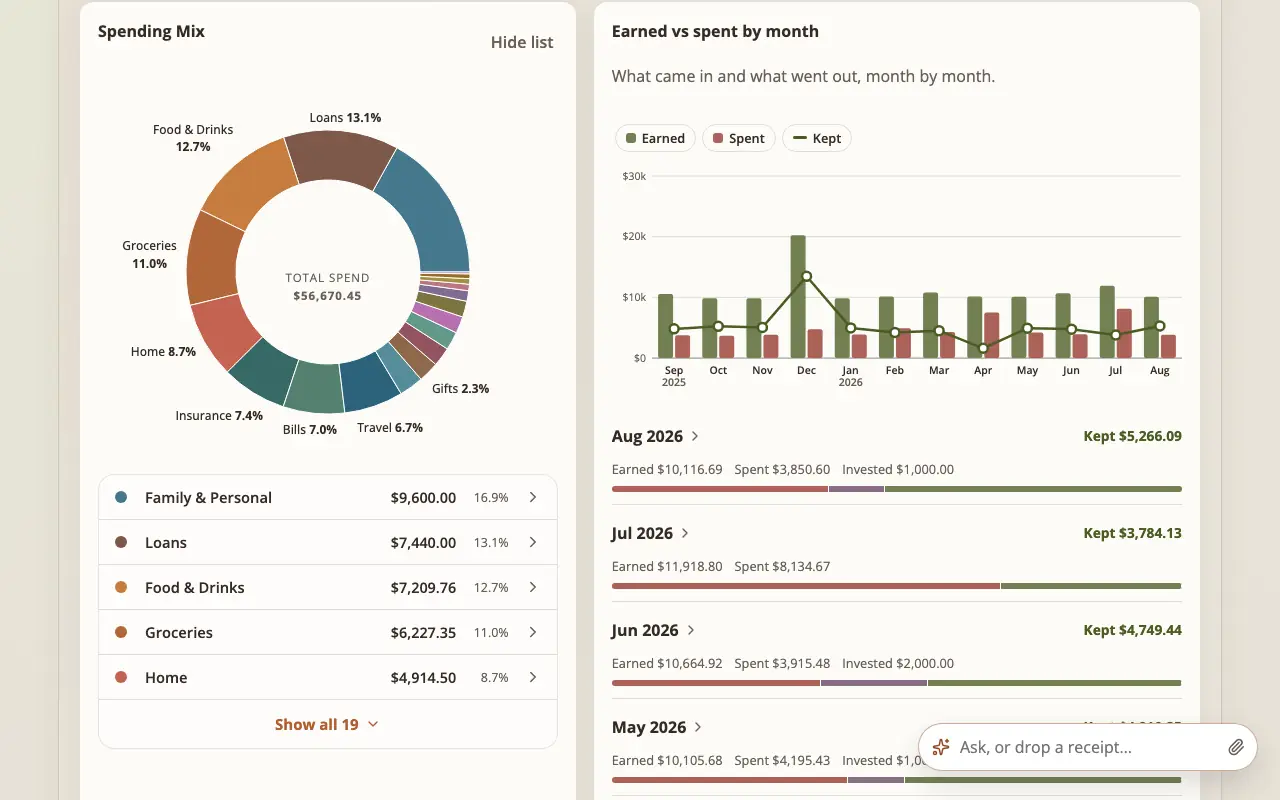
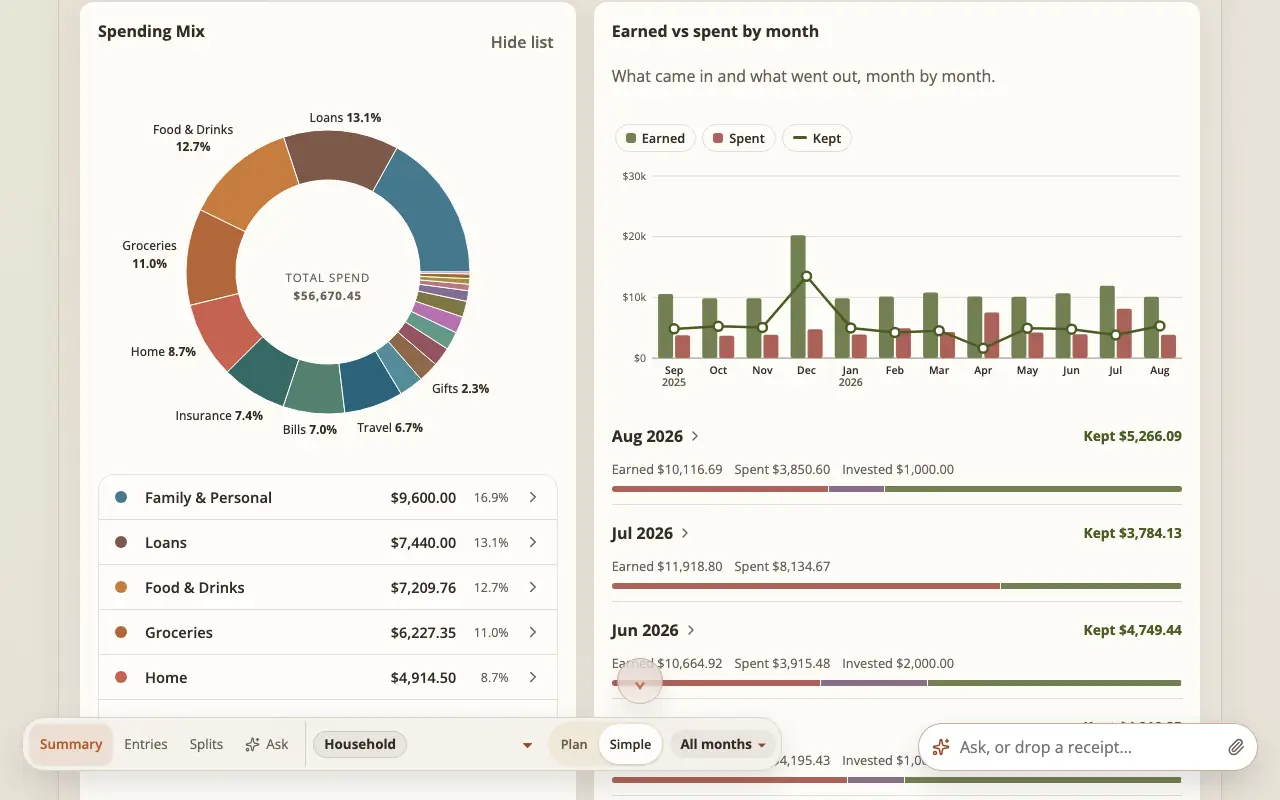
Add actual spending to the plan chart

Changed region(s): [[0.4062, 0.8125, 0.625, 0.9688], [0.0312, 0.875, 0.3438, 0.9688]]

diff --git a/src/client/earned-spent-chart.js b/src/client/earned-spent-chart.js
@@ -15,7 +15,8 @@ import { formatMonthLabel } from "./formatters";
 // The column + line chart at the top of Summary's month-by-month card (the
 // Simple view's "Earned vs spent by month", the Plan view's Intent vs
 // Outcome; design.md "Plan or Simple"). Simple: Earned and Spent columns and
-// a Kept line. Plan: Earned and Spent columns and a Planned spending line.
+// a Kept line. Plan: Earned and Spent columns, a Planned spending line and
+// an Actual spending line over the monthly spending columns.
 // It shows only for a range of two or more months (a single column says
 // nothing the card does not), and with money hidden it draws nothing: no
 // columns, no line, no axis, because their sizes and the line's side of zero
@@ -125,9 +126,9 @@ function EarnedSpentChartBody({ mode, rows }) {
 
   const visible = series.filter((item) => !hiddenKeys.has(item.key));
   const bars = visible.filter((item) => item.kind === "bar");
-  const line = visible.find((item) => item.kind === "line") ?? null;
+  const lines = visible.filter((item) => item.kind === "line");
   // The scale is of every series, so hiding one never rescales the rest.
-  const scale = R.useMemo(() => niceScale(rows.flatMap((row) => [row.earnedMinor, row.spentMinor, row.lineMinor])), [rows]);
+  const scale = R.useMemo(() => niceScale(rows.flatMap((row) => [row.earnedMinor, row.spentMinor, row.lineMinor, row.actualMinor])), [rows]);
   const geometry = chartGeometry({ width, monthCount: rows.length, barCount: bars.length });
   const { top, plotHeight, plotWidth, height } = geometry;
   const yOf = (minor) => top + (plotHeight * (scale.max - minor)) / (scale.max - scale.min);
@@ -137,11 +138,11 @@ function EarnedSpentChartBody({ mode, rows }) {
   rows.forEach((row, index) => {
     bars.forEach((item, barIndex) => points.push({ series: item, row, index, barIndex }));
   });
-  if (line) {
+  lines.forEach((line) => {
     rows.forEach((row, index) => {
-      if (row.lineMinor !== null) points.push({ series: line, row, index, barIndex: -1 });
+      if (lineValue(row, line.key) !== null) points.push({ series: line, row, index, barIndex: -1 });
     });
-  }
+  });
   const keyOf = (point) => `${point.series.key}:${point.index}`;
   const tabKey = points.some((point) => keyOf(point) === activeKey) ? activeKey : points.length ? keyOf(points[0]) : "";
 
@@ -234,23 +235,24 @@ function EarnedSpentChartBody({ mode, rows }) {
     );
   });
 
-  const linePaths = line ? lineSegments(rows, geometry, yOf).map((segment) => h("path", {
-    key: `line-${segment.start}`,
+  const linePaths = lines.flatMap((line) => lineSegments(rows, geometry, yOf, line.key).map((segment) => h("path", {
+    key: `line-${line.key}-${segment.start}`,
     className: `ec-line is-${line.key}`,
     d: segment.d,
     pathLength: 1,
     fill: "none"
-  })) : [];
-  const linePoints = line ? points.filter((point) => point.series.kind === "line").map((point) => {
+  })));
+  const linePoints = points.filter((point) => point.series.kind === "line").map((point) => {
     const cx = geometry.bandCenter(point.index);
-    const cy = yOf(point.row.lineMinor);
+    const value = lineValue(point.row, point.series.key);
+    const cy = yOf(value);
     return h(
       PointGroup,
       { key: keyOf(point), point, mode, ...handlers(point) },
-      h("circle", { className: `ec-dot is-${line.key}${point.row.lineMinor < 0 ? " is-negative" : ""}`, cx, cy, r: 4.5, style: { "--ec-i": point.index } }),
+      h("circle", { className: `ec-dot is-${point.series.key}${value < 0 ? " is-negative" : ""}`, cx, cy, r: 4.5, style: { "--ec-i": point.index } }),
       h("circle", { className: "ec-hit", cx, cy, r: 14 })
     );
-  }) : [];
+  });
 
   return h(
     "div",
@@ -348,15 +350,21 @@ function PointGroup({ point, mode, isTab, onFocus, onBlur, onHoverOpen, onHoverL
 
 // Runs of months that have a point, each its own path, so a month without
 // one (no plan) breaks the line instead of being drawn through zero.
-function lineSegments(rows, geometry, yOf) {
+function lineValue(row, key) {
+  if (key === "actual") return row.actualMinor ?? null;
+  return row.lineMinor;
+}
+
+function lineSegments(rows, geometry, yOf, key) {
   const segments = [];
   let current = null;
   rows.forEach((row, index) => {
-    if (row.lineMinor === null) {
+    const value = lineValue(row, key);
+    if (value === null) {
       current = null;
       return;
     }
-    const command = `${geometry.bandCenter(index).toFixed(1)} ${yOf(row.lineMinor).toFixed(1)}`;
+    const command = `${geometry.bandCenter(index).toFixed(1)} ${yOf(value).toFixed(1)}`;
     if (current) {
       current.d += ` L${command}`;
     } else {

diff --git a/src/client/earned-spent-chart-model.js b/src/client/earned-spent-chart-model.js
@@ -26,7 +26,8 @@ export function chartSeries(mode) {
     ? [
       { key: "earned", kind: "bar", label: words.earned, tone: "in" },
       { key: "spent", kind: "bar", label: words.spent, tone: "short" },
-      { key: "plan", kind: "line", label: words.plan, tone: "plan" }
+      { key: "plan", kind: "line", label: words.plan, tone: "plan" },
+      { key: "actual", kind: "line", label: words.actual, tone: "short" }
     ]
     : [
       { key: "earned", kind: "bar", label: words.earned, tone: "in" },
@@ -37,7 +38,8 @@ export function chartSeries(mode) {
 
 /**
  * One entry per month, oldest first: earnedMinor, spentMinor and lineMinor
- * (Kept in Simple, Planned spending in Plan; null where there is no plan).
+ * (Kept in Simple, Planned spending in Plan; null where there is no plan),
+ * plus actualMinor for Plan's actual-spending line.
  */
 export function buildChartMonths({ mode, months = [], categoryShareByMonth = [], investmentMovesByMonth = [] }) {
   if (mode === "simple") {
@@ -51,6 +53,7 @@ export function buildChartMonths({ mode, months = [], categoryShareByMonth = [],
       month: row.month,
       earnedMinor: row.actualIncomeMinor,
       spentMinor: row.realExpensesMinor,
+      actualMinor: row.realExpensesMinor,
       // As the Intent vs Outcome card reads it: no planned spend is no plan.
       lineMinor: row.estimatedExpensesMinor > 0 ? row.estimatedExpensesMinor : null
     }));
@@ -156,7 +159,7 @@ export function chartGeometry({ width, monthCount, barCount, height = 232 }) {
  * View entries lists that month's rows behind the figure.
  * @param {"plan" | "simple"} mode
  * @param {{ key: string }} series
- * @param {{ month: string, earnedMinor: number, spentMinor: number, lineMinor: number | null }} row
+ * @param {{ month: string, earnedMinor: number, spentMinor: number, lineMinor: number | null, actualMinor?: number }} row
  */
 export function pointFigure(mode, series, row) {
   const monthLabel = formatMonthLabel(row.month);
@@ -195,6 +198,15 @@ export function pointFigure(mode, series, row) {
       name: copy.series.plan,
       label: labelled(copy.seriesWord.plan, planned),
       note: [copy.planned(money(planned)), copy.spentAmount(spent)]
+    };
+  }
+  if (series.key === "actual") {
+    return {
+      ...base,
+      fig: "spent",
+      name: copy.series.actual,
+      label: labelled(copy.seriesWord.actual, row.actualMinor),
+      note: [copy.actualSpending(money(row.actualMinor)), ...(planned === null ? [copy.noPlan] : [])]
     };
   }
   // Spent.

diff --git a/tests/e2e/earned-spent-chart.spec.js b/tests/e2e/earned-spent-chart.spec.js
@@ -233,11 +233,11 @@ test.describe("Plan, desktop", () => {
     await useView(page, "plan");
   });
 
-  test("Intent vs Outcome carries the chart: Earned, Spent and a Planned spending line, no Kept", async ({ page }) => {
+  test("Intent vs Outcome carries earned, spent, planned and actual spending", async ({ page }) => {
     await openSummary(page);
     const card = page.locator(".summary-intent");
     await expect(card.locator("[data-earned-spent-chart]")).toHaveAttribute("data-earned-spent-chart", "plan", { timeout: 30_000 });
-    await expect(chart(page).locator(".ec-legend .ec-chip")).toHaveText(["Earned", "Spent", "Planned spending"]);
+    await expect(chart(page).locator(".ec-legend .ec-chip")).toHaveText(["Earned", "Spent", "Planned spending", "Actual spending"]);
     await expect(chart(page).locator('.ec-chip[data-series="kept"]')).toHaveCount(0);
     // A point for each month that has a plan; a month without one has none.
     const cards = card.locator(".summary-intent-month");
@@ -250,10 +250,12 @@ test.describe("Plan, desktop", () => {
     expect(planned).toBeGreaterThan(0);
     await expect(chart(page).locator('.ec-point[data-ec-series="earned"]')).toHaveCount(months);
     await expect(chart(page).locator('.ec-point[data-ec-series="plan"]')).toHaveCount(planned);
+    await expect(chart(page).locator('.ec-point[data-ec-series="actual"]')).toHaveCount(months);
     const spentLabel = await card.locator(`[data-month="${MONTH}"] .summary-intent-spent`).innerText();
     await expect(point(page, "spent")).toHaveAttribute("aria-label", `May 2026 spent ${spentLabel.trim()}`);
     const plannedMay = (await card.locator(`[data-month="${MONTH}"] .summary-intent-plan`).innerText()).match(/\$[\d,]+\.\d\d/)[0];
     await expect(point(page, "plan")).toHaveAttribute("aria-label", `May 2026 planned spending ${plannedMay}`);
+    await expect(point(page, "actual")).toHaveAttribute("aria-label", `May 2026 actual spending ${spentLabel.trim()}`);
   });
 
   test("the planned point's menu names the series and month, lists View entries, Open plan and Ask", async ({ page }) => {

diff --git a/src/client/copy/earned-spent-chart-copy.js b/src/client/copy/earned-spent-chart-copy.js
@@ -6,14 +6,15 @@
 export const earnedSpentChartCopy = {
   chartLabel: {
     simple: "Earned, spent and kept, month by month",
-    plan: "Earned, spent and planned spending, month by month"
+    plan: "Earned, spent, planned spending and actual spending, month by month"
   },
   legendLabel: "Show or hide in the chart",
   series: {
     earned: "Earned",
     spent: "Spent",
     kept: "Kept",
-    plan: "Planned spending"
+    plan: "Planned spending",
+    actual: "Actual spending"
   },
   // What a column or point is called for assistive tech and the quick
   // facts' first line: "Oct 2026 earned $113.30".
@@ -22,7 +23,8 @@ export const earnedSpentChartCopy = {
     spent: "spent",
     kept: "kept",
     overspent: "overspent",
-    plan: "planned spending"
+    plan: "planned spending",
+    actual: "actual spending"
   },
   pointLabel: (monthLabel, word, amount) => `${monthLabel} ${word} ${amount}`,
   // The quick facts under a menu's title, one per line (figure-menu.js).
@@ -32,6 +34,7 @@ export const earnedSpentChartCopy = {
   overspentAmount: (amount) => `${amount} overspent`,
   earnedAndSpent: (earned, spent) => `Earned ${earned}, spent ${spent}`,
   planned: (amount) => `${amount} planned`,
+  actualSpending: (amount) => `${amount} actual spending`,
   spentAmount: (amount) => `${amount} spent`,
   underPlan: (amount) => `${amount} under plan`,
   overPlan: (amount) => `${amount} over plan`,

diff --git a/src/client/earned-spent-chart.css b/src/client/earned-spent-chart.css
@@ -88,6 +88,7 @@
 [data-series="spent"] { --ec-colour: var(--ec-spent); }
 [data-series="kept"] { --ec-colour: var(--ec-kept); }
 [data-series="plan"] { --ec-colour: var(--ec-plan); }
+[data-series="actual"] { --ec-colour: var(--pastel-rose-ink); }
 
 /* The y axis stays put; the plot beside it scrolls sideways only when more
    than twelve months do not fit. */
@@ -155,6 +156,7 @@
 
 .ec-line.is-kept { stroke: var(--ec-kept); }
 .ec-line.is-plan { stroke: var(--ec-plan); }
+.ec-line.is-actual { stroke: var(--pastel-rose-ink); stroke-dasharray: 5 3; }
 
 .ec-dot {
   fill: var(--paper);
@@ -163,6 +165,7 @@
 
 .ec-dot.is-kept { stroke: var(--ec-kept); }
 .ec-dot.is-plan { stroke: var(--ec-plan); }
+.ec-dot.is-actual { stroke: var(--pastel-rose-ink); }
 .ec-dot.is-negative { stroke: var(--pastel-rose-ink); }
 
 /* A column or point is an openable figure: a clear target over it takes the

diff --git a/src/domain/ask-turn.ts b/src/domain/ask-turn.ts
@@ -1488,9 +1488,11 @@ function currentPerson(context: AskTurnContext) {
     ? context.people.find((person) => person.name === context.entry.viewerName)
     : null;
   if (byShortcut) return byShortcut;
-  return context.focus?.kind === "saved_entry"
-    ? context.people.find((person) => person.id === context.focus.entry.payerPersonId) ?? null
-    : null;
+  const focus = context.focus;
+  if (focus?.kind === "saved_entry") {
+    return context.people.find((person) => person.id === focus.entry.payerPersonId) ?? null;
+  }
+  return null;
 }
 
 function walletOwner(account: AccountDto, people: AskTurnPerson[]) {

diff --git a/src/client/month-route.css b/src/client/month-route.css
@@ -621,7 +621,7 @@
   /* A held slider draft adds Undo to the island. Keep its 44px target just
      above the compact mode switch so the labelled month navigator and the
      Sliders | List control never run off the phone's edge. */
-  .mobile-context-sticky-bar[data-scope="direct_plus_shared"] #mobile-plan-actions:has([data-plan-island-undo]) {
+  .mobile-context-sticky-bar[data-scope="direct_plus_shared"] #mobile-plan-actions:has(> [data-plan-island-undo]) {
     position: relative;
   }
 

diff --git a/docs/user-guide.md b/docs/user-guide.md
@@ -367,15 +367,17 @@ over plan.
   has two columns, **Earned** and **Spent**, and a line runs across the
   months. In Simple the line is what you **Kept**; it drops below the zero
   line in a month you spent more than you earned. In Plan the line is your
-  **Planned spending**, so a month where the Spent column rises above the
-  line went over plan; a month with no plan has no point on the line. The
-  columns grow up and the line draws itself the first time you scroll to
-  it (not at all if your phone is set to reduce motion). Select a column or
+  **Planned spending** and a rose dashed **Actual spending** line that follows
+  the tops of the Spent columns, making the monthly spending trend easy to
+  compare with the plan. A month with no plan has no point on the blue line.
+  The columns grow and the lines draw the first time you scroll to the chart
+  (not at all if your phone is set to reduce motion). Select a column or
   a point, or on a computer rest the pointer on it, to see that month's
   figure with a few facts, then choose **View entries** for the entries
   behind it, **Open plan** (Plan only) or **Ask about this**. The arrow keys
   move between them. Select a name above the chart (**Earned**, **Spent**,
-  **Kept** or **Planned spending**) to hide or show it. Hide money totals
+  **Kept**, **Planned spending** or **Actual spending**) to hide or show it.
+  Hide money totals
   and the chart goes away, and with a single month there is no chart.
 
   ![Earned vs spent by month starts with a chart of each month's earned and spent and a line for what was kept](/faq/guide/desktop/thumbs/summary-month-chart.webp)

diff --git a/design.md b/design.md
@@ -1174,13 +1174,16 @@ Where it is used:
   invisible `.earned-spent-chart-reserve`, so the cards under it do not move).
   Simple: Earned (mint) and Spent (rose) columns, in the savings bar's
   colours, and a Kept line (mint ink; a point below zero is rose ink), with
-  the zero line marked. Plan: the same columns and a Planned spending line
-  (sky ink) that breaks where a month has no plan. Months run oldest to
+  the zero line marked. Plan: the same columns, a Planned spending line (sky
+  ink) that breaks where a month has no plan, and a dashed Actual spending
+  line (rose ink) that follows the tops of the Spent columns. Months run oldest
+  to
   newest with short labels and the year on the first and each January; 12
   months fit a phone by narrowing the columns, and only past 12 does the
   plot scroll sideways while the y axis stays put. A few gridlines carry
-  compact labels ($8k). The legend chips (Earned, Spent, Kept or Planned
-  spending) show and hide a series; the last one showing stays, and the
+  compact labels ($8k). The legend chips (Earned, Spent, Kept, Planned
+  spending or Actual spending) show and hide a series; the last one showing
+  stays, and the
   scale is of every series so hiding one never rescales the rest. Each
   column and point is an openable figure whose menu is titled with the series
   and the month ("Spent · Oct 2026"), with quick facts first, then View
